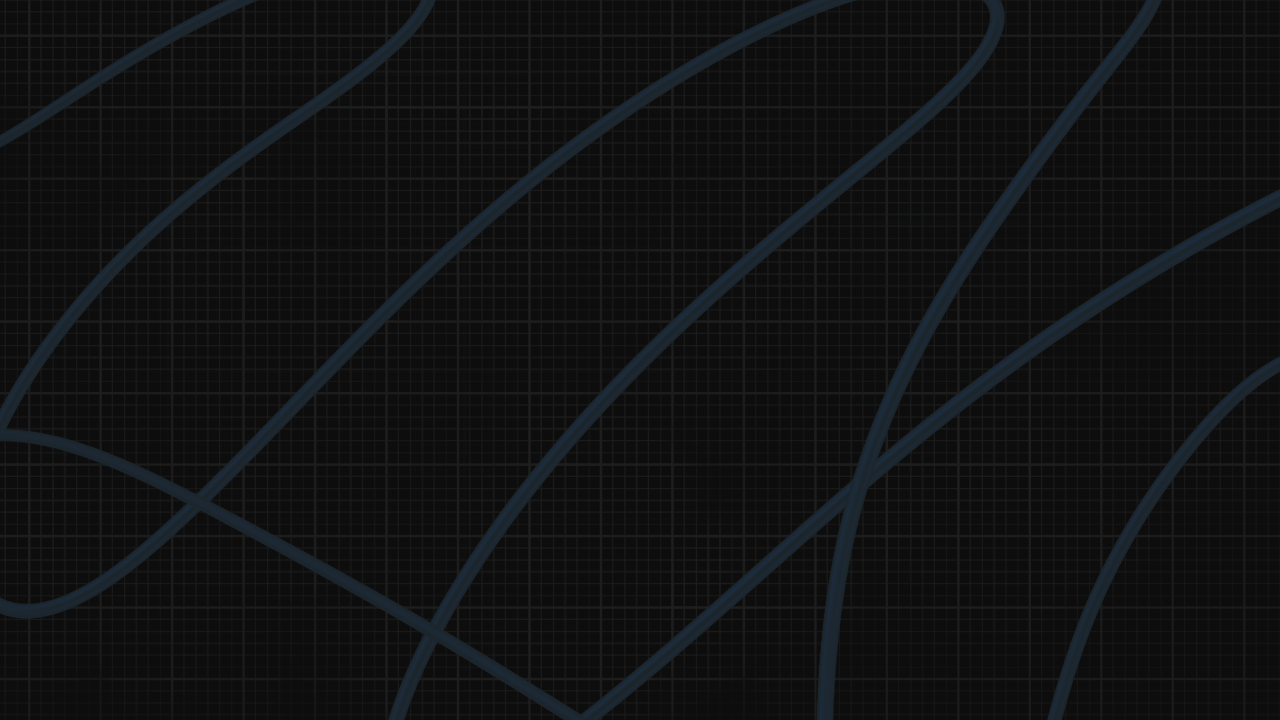
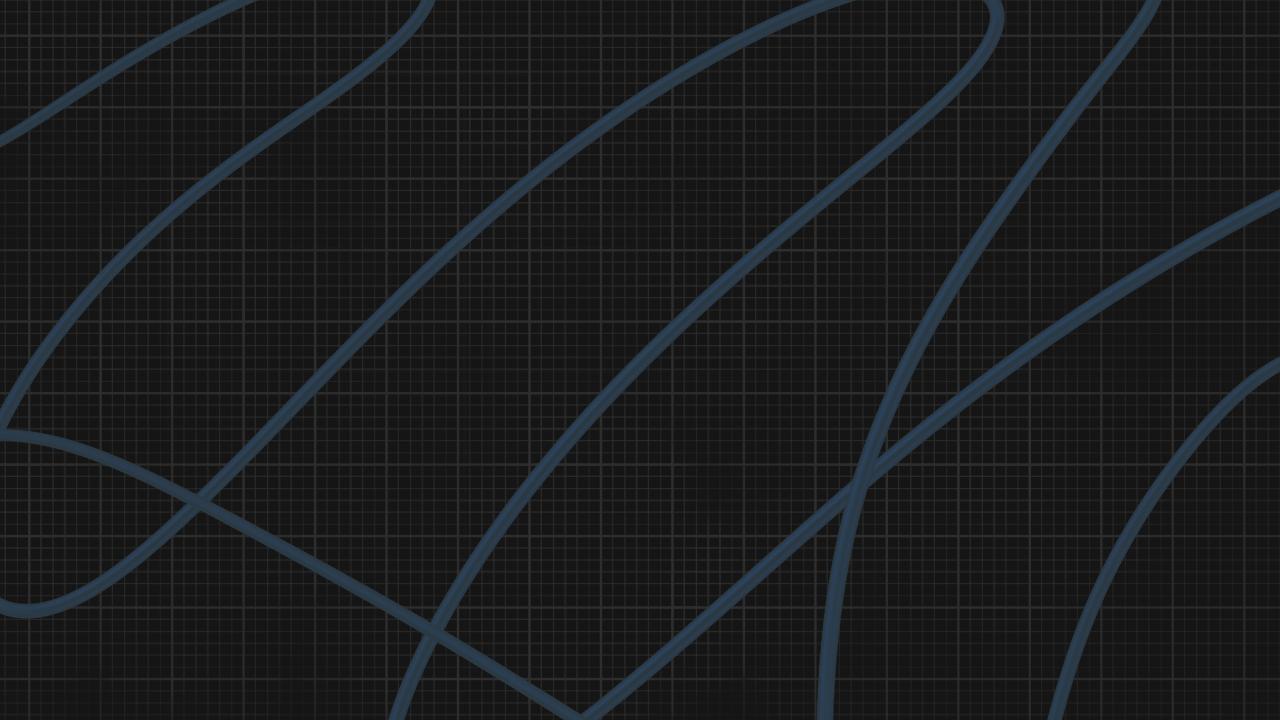
Adding the navbar color changes and the experience arrow changes

diff --git a/src/App.js b/src/App.js
@@ -56,7 +56,7 @@ function App() {
 
         <div className="nav-collection fixed top-7 right-8 flex flex-row items-center gap-4 rounded-full z-40 ">
           <nav className="h-10">
-            <div className=" flex flex-row items-center justify-center  text-gray-800 dark:text-gray-200 font-medium  bg-white/30 dark:bg-white/10 backdrop-blur-xs rounded-full p-1 ">
+            <div className=" flex flex-row items-center justify-center  text-gray-800 dark:text-gray-200 font-medium  bg-white/30 dark:bg-black/60  backdrop-blur-xs rounded-full p-1 ">
               <Link
                 to="Home"
                 smooth
@@ -111,6 +111,7 @@ function App() {
               </Link>
             </div>
           </nav>
+
           <label className="toggle-button relative inline-flex items-center cursor-pointer rounded-3xl">
             {/* Hidden checkbox */}
             <input
@@ -120,7 +121,7 @@ function App() {
               onChange={(e) => setIsToggled(e.target.checked)}
             />
 
-            <div className="toggle-button w-11 h-11 bg-white/5 bg-white-20 dark:bg-black/20 backdrop-blur-lg z-50 rounded-full flex items-center justify-center cursor-pointer hover:scale-125  transition-all duration-300 peer-checked:bg-white/30 dark:peer-checked:bg-black/30 ">
+            <div className="toggle-button bg-dark-20 dark:bg-white/20 w-11 h-11 backdrop-blur-lg z-50 rounded-full flex items-center justify-center cursor-pointer hover:scale-125  transition-all duration-300  ">
               {isToggled ? (
                 <Sun size={24} className="text-yellow-400" />
               ) : (
@@ -128,9 +129,10 @@ function App() {
               )}
             </div>
           </label>
+
         </div>
       </div>
-      {/* <div className='hamburger '>{activeSection}</div>       */}
+      {/* <div className='hamburger '> {activeSection} </div> */}
 
       {/* Hamburger Menu for smaller screens */}
       <div className="hamburger-container d-md-none dark:bg-black/30 bg-white/30  ">
@@ -217,7 +219,7 @@ function App() {
                 checked={isToggled}
                 onChange={(e) => setIsToggled(e.target.checked)}
               />
-              <div className="w-5 h-5 bg-white/5 dark:bg-black/20 backdrop-blur-lg z-50 rounded-full flex items-center justify-center hover:scale-110 transition-all duration-300 peer-checked:bg-white/30 dark:peer-checked:bg-black/30">
+              <div className="w-5 h-5 bg-white/5 dark:bg-black/20 backdrop-blur-lg z-50 rounded-full flex items-center justify-center hover:scale-110 transition-all duration-300  ">
                 {isToggled ? (
                   <Sun size={22} className="text-yellow-400" />
                 ) : (

diff --git a/src/App.css b/src/App.css
@@ -61,17 +61,16 @@
 
 nav {
   /* margin: 30px; */
-  position:relative;
+  position: relative;
   z-index: 1000;
   display: flex;
-  color:#000000;
+  color: #000000;
   justify-content: flex-end;
   border-radius: 25px;
   box-shadow: 10px 10px 60px;
   backdrop-filter: blur(6px);
   -webkit-backdrop-filter: blur(10px);
 }
-
 
 nav a {
   color: rgb(39, 39, 39);
@@ -80,17 +79,16 @@ nav a {
   font-size: 18px;
   font-weight: bold;
   display: inline-block;
-  transition: transform 0.3s ease, color 0.3s ease;
+  transition:
+    transform 0.3s ease,
+    color 0.3s ease;
 }
 
 nav a:hover {
   transform: scale(1.1);
-  color: rgb(56, 55, 55);
+  
 }
-.toggle-button input {
 
-  box-shadow: -5px 8px 50px 0px;
-}
 body {
   /* font-family: -apple-system, BlinkMacSystemFont, "Segoe UI", Roboto, "Helvetica Neue", Arial, sans-serif; */
 }
@@ -99,6 +97,10 @@ Element {
   border: 2px solid red;
 }
 
+.dark .active-link{
+  background-color: #ffffffac;
+  color: #000000;
+}
 .active-link {
   color: #ffffff;
   border-radius: 25px;
@@ -116,7 +118,6 @@ Element {
   color: rgb(130, 129, 129);
 }
 
-
 .custom-menu a.active-link {
   color: #ffffff;
   border-radius: 25px;
@@ -131,11 +132,10 @@ Element {
   margin: 0px;
 }
 
-.toggle-button{
-    box-shadow: 10px 10px 60px;
-
+.toggle-button {
+  box-shadow: 10px 10px 60px;
 }
-.hamburger-option{
+.hamburger-option {
   margin-top: 0px;
   margin-bottom: 4px;
 }

diff --git a/src/index.css b/src/index.css
@@ -35,7 +35,7 @@ body {
     @apply md:ml-0  md:pl-0 md:w-1/2 md:pr-12;
   }
   .timeline-pointer {
-    @apply absolute z-20 inset-5 left-[32px] h-5 w-5 transform  -top-[0.75px] rotate-[135deg] xs:left-13 xs:rotate-[45deg] xs:top-10 md:rotate-45 md:left-[39px] md:top-10  border border-black/10 dark:border-black/90  shadow-lg bg-white/20 shadow-black/60 backdrop-blur-md;
+    @apply absolute z-20 inset-5 left-[32px] h-5 w-5 transform  -top-[0.75px] rotate-[135deg] xs:left-13 xs:rotate-[45deg] xs:top-10 md:rotate-45 md:left-[39px] md:top-10  border border-black/10 dark:border-black/90  shadow-lg bg-white/20 dark:bg-black/20 shadow-black/60 backdrop-blur-md;
     clip-path: polygon(0 0, 100% 100%, 0 100%);
   }
 

diff --git a/src/components/ProjectComponent/ProjectComponent.js b/src/components/ProjectComponent/ProjectComponent.js
@@ -1,4 +1,3 @@
-import React from "react";
 import clsx from "clsx";
 import { useState } from "react";
 import flip_image from "../../Images/flip_icon.png";
